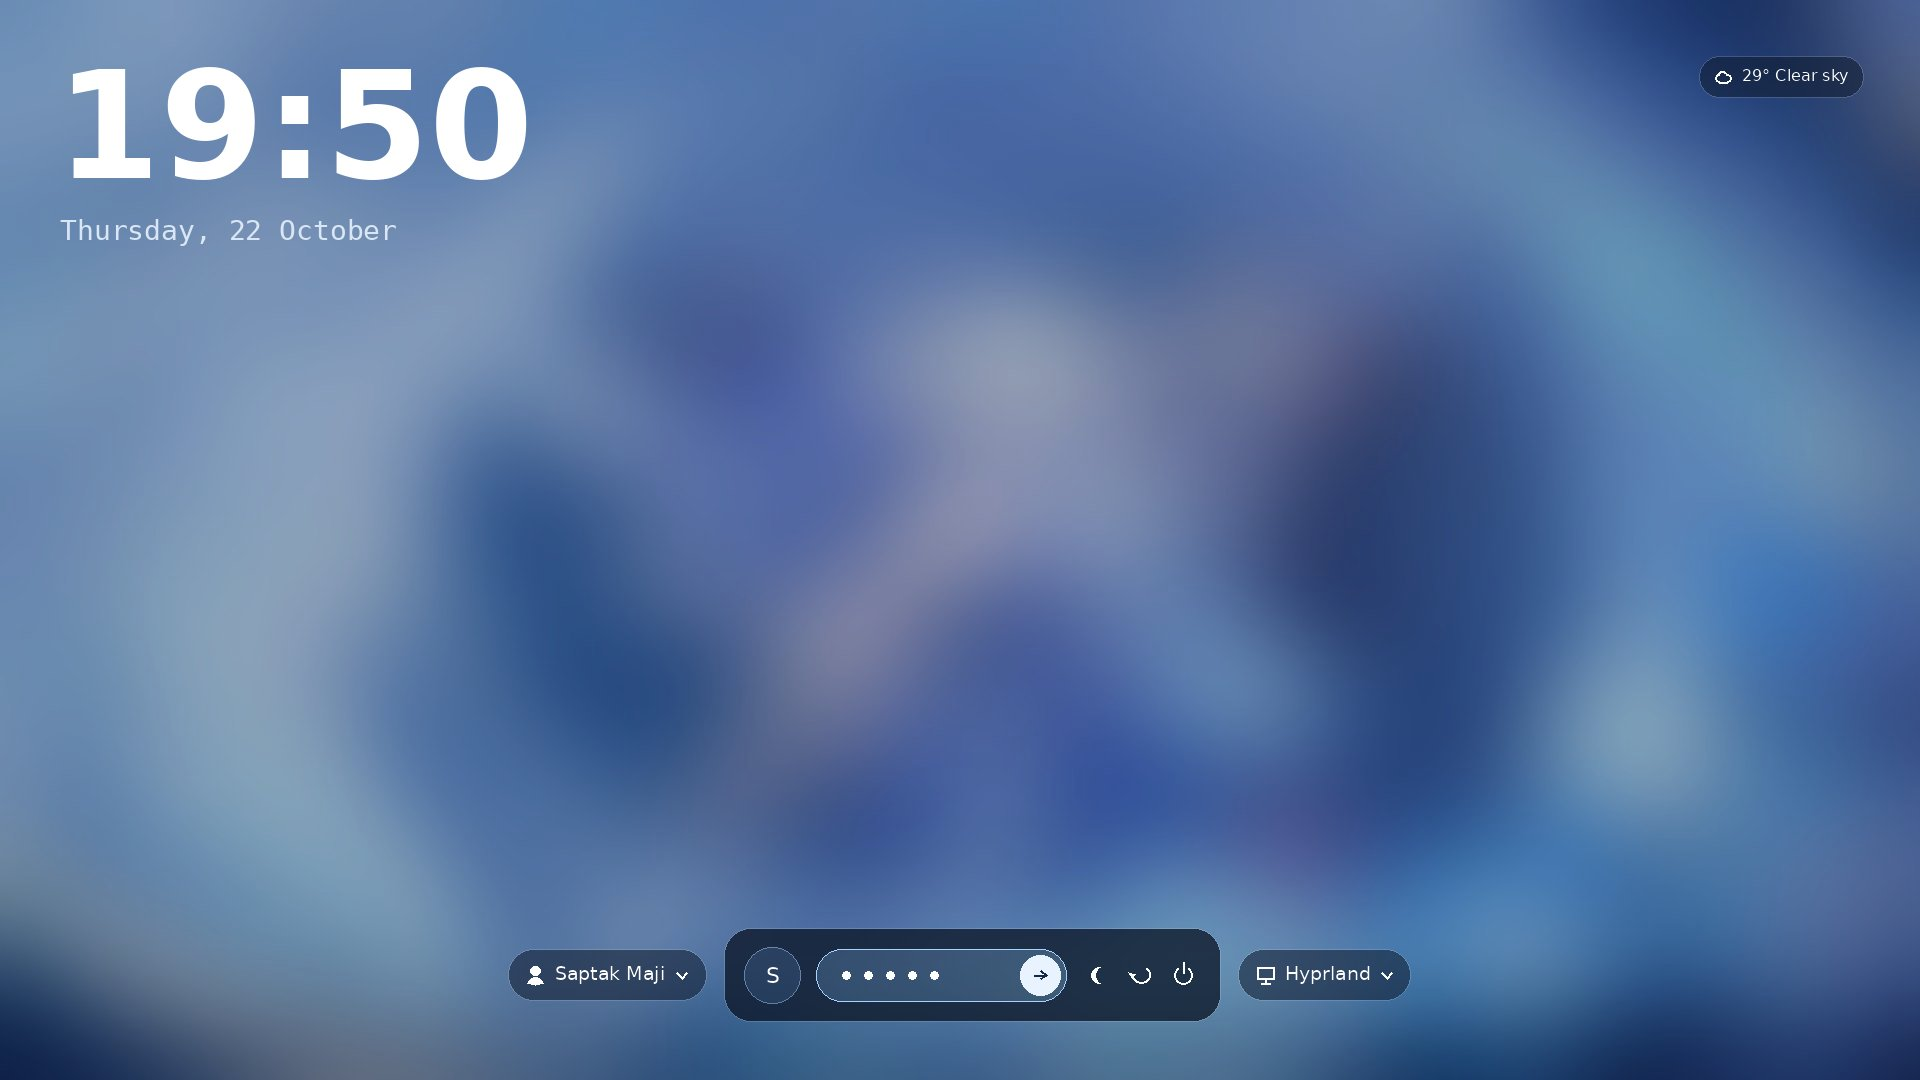
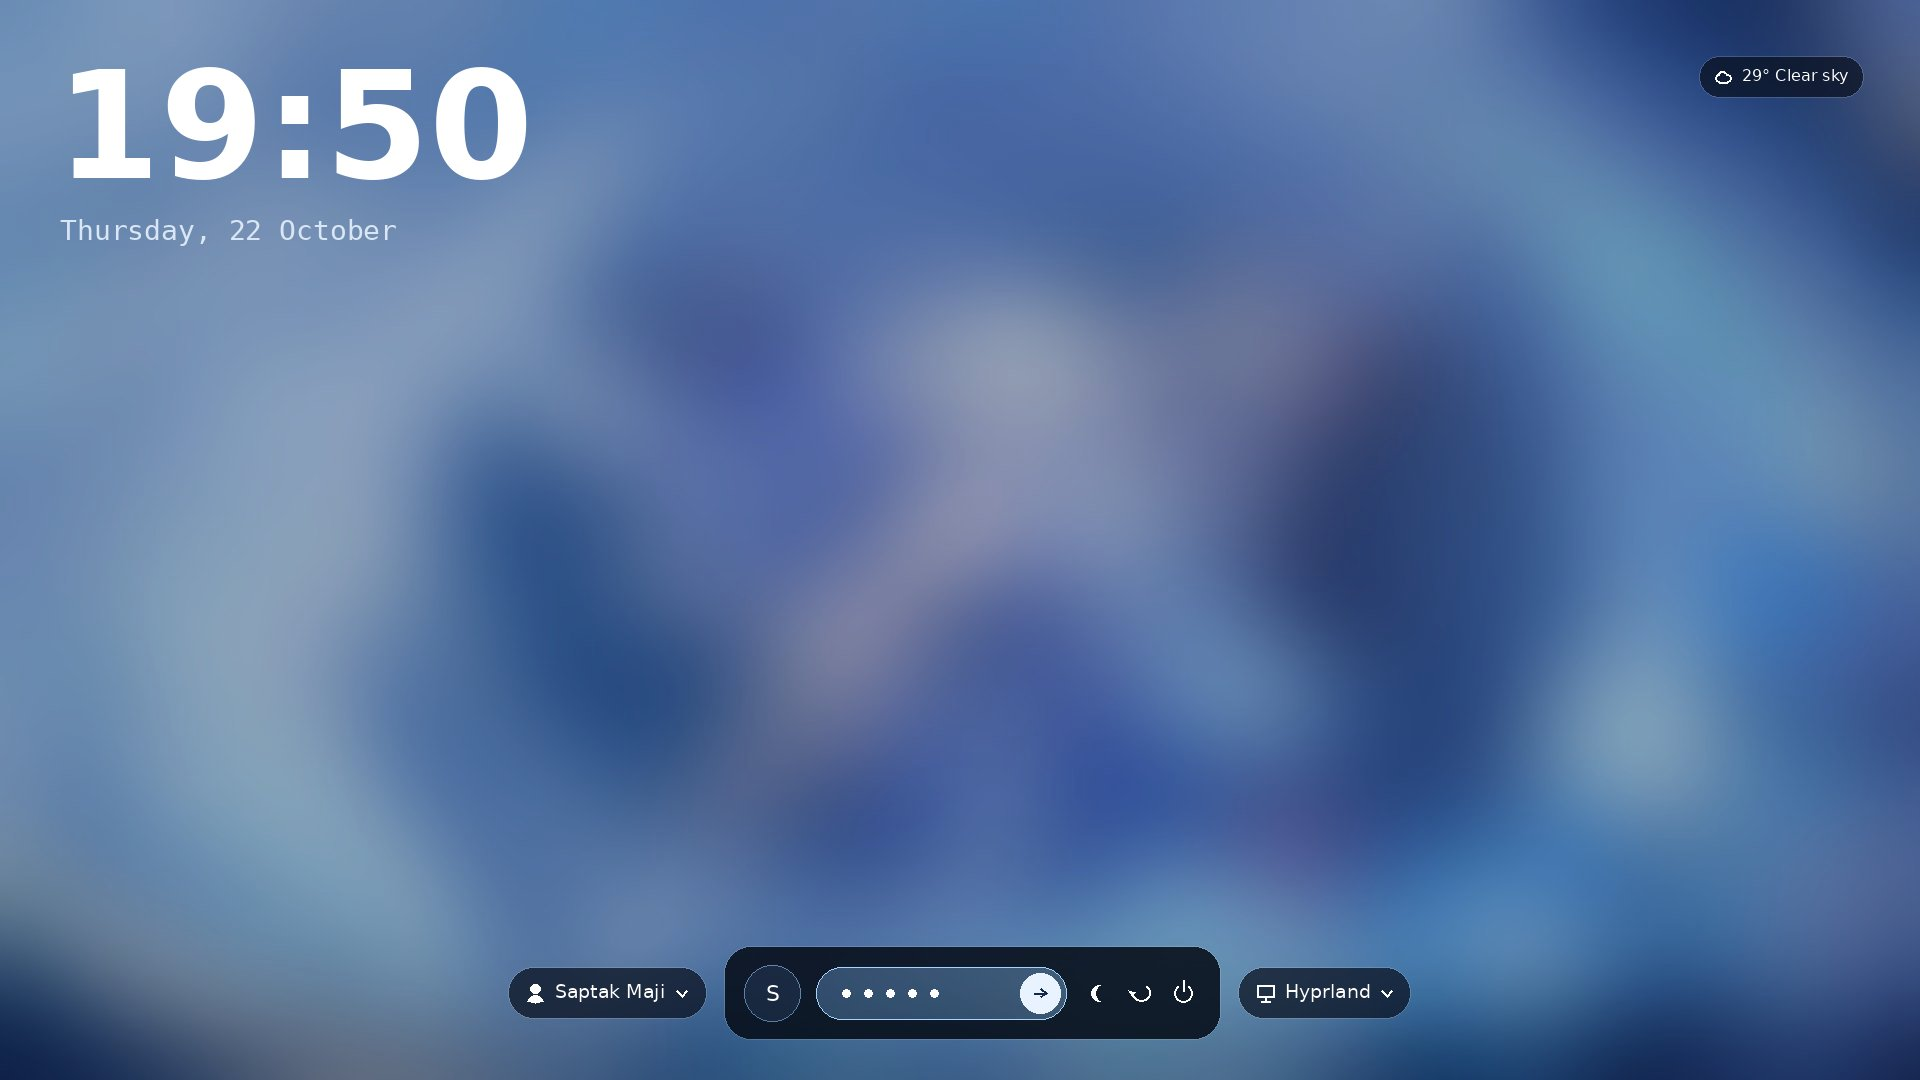
Power buttons turned on and pills moved a little
Changed AlwaysShowPowerButtons=false to true for testing

Changed region(s): [[0.25, 0.8556, 0.75, 0.9778], [0.875, 0.0611, 0.9688, 0.0917]]

diff --git a/Main.qml b/Main.qml
@@ -41,8 +41,8 @@ Rectangle {
     // ------------------------------------------------------------ palette ---
     property color cText:        "#ffffff"
     property color cTextDim:     "#d9e6f5"
-    property color cGlass:       Qt.rgba(0.055, 0.098, 0.176, 0.55)
-    property color cGlassStrong: Qt.rgba(0.035, 0.070, 0.135, 0.74)
+    property color cGlass:       Qt.rgba(0.031, 0.059, 0.118, 0.72)
+    property color cGlassStrong: Qt.rgba(0.020, 0.043, 0.086, 0.86)
     property color cStroke:      Qt.rgba(1, 1, 1, 0.14)
     property color cAccent:      "#a7d4ff"
     property color cDanger:      "#ffb4b4"
@@ -71,9 +71,16 @@ Rectangle {
     // ------------------------------------------------- SDDM capabilities ---
     // Read once here; component files then use root.canSuspend / etc. rather
     // than touching the sddm context property during their first evaluation.
-    readonly property bool canSuspend:  (typeof sddm !== "undefined" && sddm !== null) ? sddm.canSuspend  : true
-    readonly property bool canReboot:   (typeof sddm !== "undefined" && sddm !== null) ? sddm.canReboot   : true
-    readonly property bool canPowerOff: (typeof sddm !== "undefined" && sddm !== null) ? sddm.canPowerOff : true
+    //
+    // Note: in `sddm-greeter --test-mode` there is no SDDM daemon behind the
+    // greeter, so it reports every power capability as false and the buttons
+    // would vanish. AlwaysShowPowerButtons therefore defaults to true, which
+    // matches the reference design (all three buttons, always). Set it to
+    // "false" in theme.conf to hide whatever SDDM says it cannot do.
+    readonly property bool alwaysPower: config.AlwaysShowPowerButtons !== "false"
+    readonly property bool canSuspend:  root.alwaysPower || ((typeof sddm !== "undefined" && sddm !== null) ? sddm.canSuspend  : true)
+    readonly property bool canReboot:   root.alwaysPower || ((typeof sddm !== "undefined" && sddm !== null) ? sddm.canReboot   : true)
+    readonly property bool canPowerOff: root.alwaysPower || ((typeof sddm !== "undefined" && sddm !== null) ? sddm.canPowerOff : true)
 
     // -------------------------------------------------------------- state ---
     property bool   entryMode: false
@@ -165,7 +172,7 @@ Rectangle {
         anchors.horizontalCenter: parent.horizontalCenter
         anchors.horizontalCenterOffset: root.shakeOffset
         anchors.bottom: parent.bottom
-        anchors.bottomMargin: root.s(58)
+        anchors.bottomMargin: root.s(40)
         width:  childrenRect.width
         height: Math.max(profile.height, centreSlot.height, session.height)
 
@@ -223,7 +230,7 @@ Rectangle {
         u: root.uiScale
         anchors.right: parent.right
         anchors.bottom: parent.bottom
-        anchors.margins: root.s(56)
+        anchors.margins: root.s(40)
         opacity: root.entryMode ? 0 : 1
         visible: opacity > 0.01
         Behavior on opacity { NumberAnimation { duration: 200 } }

diff --git a/README.md b/README.md
@@ -72,6 +72,7 @@ Everything lives in `theme.conf` next to `Main.qml`:
 | `FontFamily` / `MonoFontFamily` | UI font and the monospace prompt/date font |
 | `PromptText` | The idle pill text |
 | `WeatherText` / `ShowWeather` | The top-right pill (SDDM has no network, so it is a static label) |
+| `AlwaysShowPowerButtons` | `true` (default) always shows the suspend / restart / power buttons; `false` hides whichever ones SDDM reports it cannot do |
 | `DimBackground` | 0–1 darkening of the idle screen |
 | `BlurDuration` | Cross-fade time in ms |
 | `ScreenWidth` / `ScreenHeight` | Leave 0 to auto-detect |
